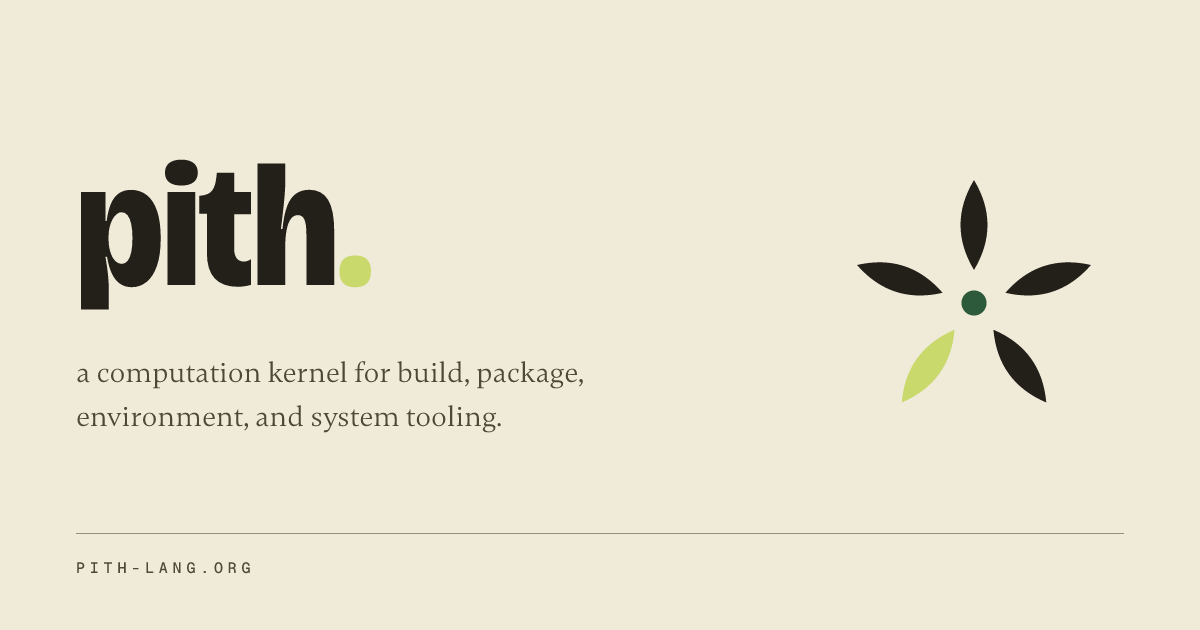
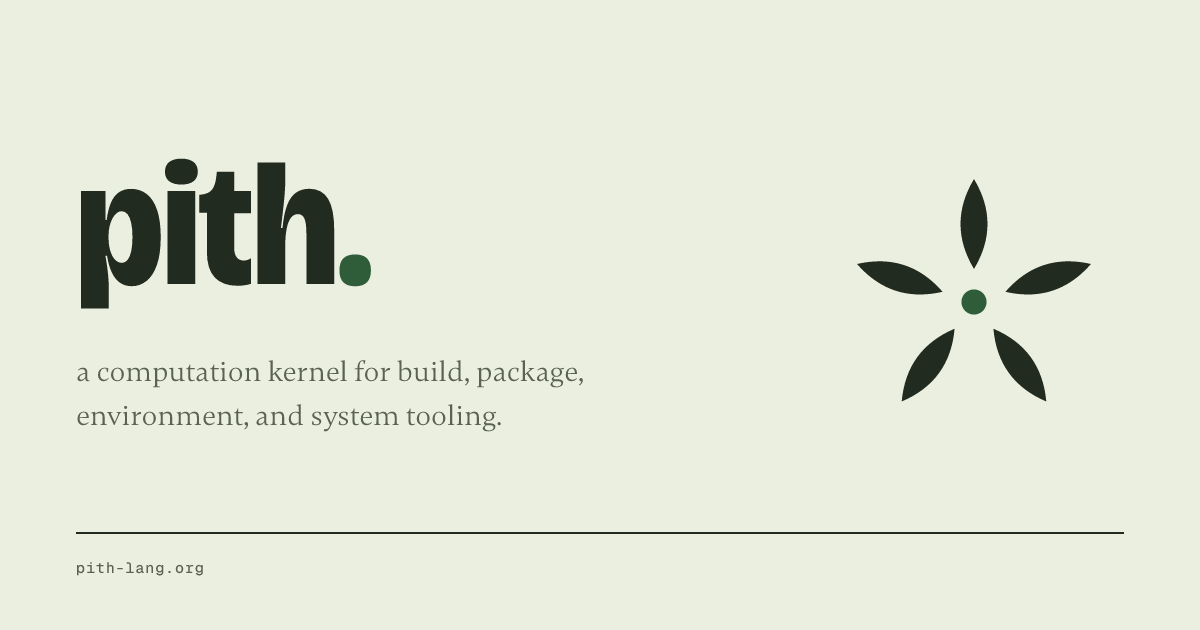
feat(web): refresh the palette and tighten the site copy

diff --git a/web/src/styles/global.css b/web/src/styles/global.css
@@ -1,18 +1,15 @@
 :root {
-  --ground: #f0ead8;
-  --ink: #23201a;
-  --sub: #4e4936;
-  --line: #938e82;
-  --accent: #c9d96b;
-  --pith: #2e5a3c;
-  --card: #f0ead8;
-  --card-ink: #23201a;
-  --card-sub: #4e4936;
-  --card-line: #938e82;
-  --card-pith: #2e5a3c;
-  --tile: #1a1c17;
-  --tile-ink: #f0ead8;
-  --tile-line: #494b41;
+  --ground: #ebefe0;
+  --ink: #222b20;
+  --sub: #5b6350;
+  --line: #c5cbaf;
+  --rule: #222b20;
+  --pith: #2f5d3a;
+  --rust: #96502c;
+  --tile: #232a21;
+  --tile-ink: #e9e5d4;
+  --tile-line: #454d40;
+  --wash: rgba(47, 93, 58, 0.07);
 
   --font-display: 'Bricolage Grotesque', 'Bricolage Fallback', sans-serif;
   --font-text: 'Gambetta', 'Gambetta Fallback', Georgia, serif;
@@ -22,11 +19,17 @@
 
 @media (prefers-color-scheme: dark) {
   :root {
-    --ground: #1a1c17;
-    --ink: #f0ead8;
-    --sub: #c8c3ac;
-    --line: #494b41;
-    --pith: #5e8a6e;
+    --ground: #161a14;
+    --ink: #ebe7d6;
+    --sub: #a4a892;
+    --line: #383e33;
+    --rule: #ebe7d6;
+    --pith: #7fb07a;
+    --rust: #cf8a5b;
+    --tile: #1e241b;
+    --tile-ink: #ebe7d6;
+    --tile-line: #454d40;
+    --wash: rgba(127, 176, 122, 0.09);
   }
 }
 
@@ -59,8 +62,8 @@ i {
 }
 
 ::selection {
-  background: var(--accent);
-  color: #1a1c17;
+  background: var(--pith);
+  color: var(--ground);
 }
 
 ::-webkit-scrollbar {
@@ -87,7 +90,7 @@ i {
 
 a {
   color: inherit;
-  text-decoration-thickness: 1.5px;
+  text-decoration-thickness: 1px;
   text-underline-offset: 0.2em;
   -webkit-tap-highlight-color: transparent;
 }
@@ -133,10 +136,9 @@ ul {
 
 .label {
   font-family: var(--font-label);
-  font-size: 12px;
+  font-size: 12.5px;
   font-weight: 500;
-  letter-spacing: 0.32em;
-  text-transform: uppercase;
+  letter-spacing: 0.06em;
   color: var(--sub);
 }
 
@@ -150,32 +152,51 @@ ul {
 code,
 .mono {
   font-family: var(--font-label);
-  font-size: 0.86em;
+  font-size: 0.84em;
+  padding: 0.1em 0.34em 0.12em;
+  border: 1px solid var(--line);
+  border-radius: 2px;
+  background: var(--wash);
+}
+
+pre code {
+  padding: 0;
+  border: none;
+  border-radius: 0;
+  background: none;
+  font: inherit;
 }
 
 .dot {
-  color: var(--accent);
+  color: var(--pith);
 }
 
-.box {
-  background: var(--card);
-  color: var(--card-ink);
-  border: 1.5px solid var(--card-ink);
-  box-shadow: 10px 10px 0 var(--accent);
+.plate {
+  border: 1px solid var(--rule);
 }
 
 .terminal {
   background: var(--tile);
   color: var(--tile-ink);
-  border: 1.5px solid var(--tile-line);
+  border: 1px solid var(--tile-line);
 }
 
 .terminal .machine {
   color: var(--tile-ink);
 }
 
+.tile-head {
+  display: flex;
+  align-items: center;
+  justify-content: space-between;
+  gap: 16px;
+  padding: 12px 18px;
+  border-bottom: 1px solid var(--tile-line);
+}
+
 .site-header {
   padding-block: 26px;
+  border-bottom: 1px solid var(--line);
 }
 
 .header-row {
@@ -191,13 +212,13 @@ code,
   align-items: center;
   gap: 12px;
   text-decoration: none;
-  font-size: 30px;
+  font-size: 29px;
   color: var(--ink);
 }
 
 .wordmark .mark {
-  width: 34px;
-  height: 34px;
+  width: 32px;
+  height: 32px;
   flex: none;
 }
 
@@ -217,8 +238,8 @@ code,
 }
 
 .site-footer {
-  margin-top: clamp(6rem, 12vw, 10rem);
-  border-top: 1.5px solid var(--line);
+  margin-top: 0;
+  border-top: 1px solid var(--line);
   padding-block: 36px 48px;
 }
 
@@ -231,8 +252,8 @@ code,
 }
 
 .footer-row .mark {
-  width: 28px;
-  height: 28px;
+  width: 26px;
+  height: 26px;
 }
 
 .f-brand {
@@ -251,20 +272,12 @@ code,
 }
 
 .section {
-  margin-block: clamp(4.5rem, 9vw, 7.5rem);
-  display: grid;
-  grid-template-columns: 172px 1fr;
-  gap: 24px 48px;
-  align-items: start;
-}
-
-.rail {
-  position: sticky;
-  top: 24px;
+  padding-block: clamp(3.5rem, 7vw, 6rem);
+  border-top: 1px solid var(--line);
 }
 
 .sec-title {
-  font-size: clamp(28px, 4vw, 42px);
+  font-size: clamp(30px, 4vw, 48px);
   margin-bottom: 1.4rem;
 }
 
@@ -274,16 +287,6 @@ code,
 
 .prose p + p {
   margin-top: 1em;
-}
-
-@media (max-width: 880px) {
-  .section {
-    grid-template-columns: 1fr;
-  }
-
-  .rail {
-    position: static;
-  }
 }
 
 @media (prefers-reduced-motion: reduce) {

diff --git a/web/src/components/EffectMark.svelte b/web/src/components/EffectMark.svelte
@@ -57,7 +57,7 @@
     });
 
     const petal = "M50,9 C56,19 56,29 50,39 C44,29 44,19 50,9 Z";
-    const accentIndex = 3;
+    const designedIndex = 3;
 
     const focus = (index: number) => () => (active = index);
     const release = () => (active = null);
@@ -76,7 +76,7 @@
                     <path
                         d={petal}
                         transform={`rotate(${i * 72} 50 50)`}
-                        class:accent={i === accentIndex}
+                        class:designed={i === designedIndex}
                         class:recede={active !== null && active !== i}
                     ></path>
                 {/each}
@@ -147,8 +147,8 @@
         opacity: 0.15;
     }
 
-    .mark path.accent {
-        fill: var(--accent);
+    .mark path.designed {
+        fill: var(--rust);
     }
 
     .mark .kernel {
@@ -157,8 +157,7 @@
 
     .cats li {
         border-bottom: 1px solid var(--line);
-        border-left: 3px solid transparent;
-        transition: border-color 240ms cubic-bezier(0.25, 0.7, 0.25, 1);
+        transition: background 240ms cubic-bezier(0.25, 0.7, 0.25, 1);
     }
 
     .cats li:first-child {
@@ -166,16 +165,16 @@
     }
 
     .cats li.on {
-        border-left-color: var(--pith);
+        background: var(--wash);
     }
 
     .cats button {
         display: grid;
-        grid-template-columns: 128px 1fr auto;
-        gap: 6px 20px;
+        grid-template-columns: 1fr auto;
+        gap: 8px 24px;
         align-items: baseline;
         width: 100%;
-        padding: 13px 2px 13px 14px;
+        padding: 13px 14px 15px;
         border: none;
         background: none;
         color: inherit;
@@ -185,7 +184,7 @@
     }
 
     .cats li :global(.label) {
-        letter-spacing: 0.18em;
+        letter-spacing: 0.06em;
     }
 
     .cats .idx {
@@ -193,10 +192,13 @@
     }
 
     .cats .name {
+        grid-area: 1 / 1;
         transition: color 240ms cubic-bezier(0.25, 0.7, 0.25, 1);
     }
 
     .cats .blurb {
+        grid-area: 2 / 1 / 3 / 3;
+        max-width: 56ch;
         font-size: 16.5px;
         line-height: 1.5;
         color: var(--sub);
@@ -204,7 +206,8 @@
     }
 
     .cats .status {
-        color: var(--sub);
+        grid-area: 1 / 2;
+        color: var(--rust);
         white-space: nowrap;
         transition: color 240ms cubic-bezier(0.25, 0.7, 0.25, 1);
     }
@@ -234,8 +237,9 @@
         }
 
         .markwrap {
+            align-self: stretch;
             padding: 22px 0 18px;
-            border-bottom: 1.5px solid var(--line);
+            border-bottom: 1px solid var(--line);
         }
 
         .mark {
@@ -243,6 +247,7 @@
         }
 
         .cats {
+            align-self: stretch;
             position: relative;
             flex: 1;
             pointer-events: none;
@@ -254,6 +259,7 @@
             display: flex;
             align-items: center;
             border: none;
+            background: none;
             opacity: 0;
             transform: translateY(12px);
             transition:
@@ -277,9 +283,15 @@
             color: var(--sub);
         }
 
+        .cats .name,
+        .cats .blurb,
+        .cats .status {
+            grid-area: auto;
+        }
+
         .cats .name {
             font-size: 14px;
-            letter-spacing: 0.24em;
+            letter-spacing: 0.06em;
         }
 
         .cats .blurb {

diff --git a/web/README.md b/web/README.md
@@ -29,8 +29,8 @@ pnpm dev
 Every page's social card renders at build time from one shared frame.
 [`src/og/layout.mjs`](src/og/layout.mjs) owns the identity: the palette from
 `docs/brand/system.md`, the self-hosted faces, the mark's exact petal
-construction as SVG, and the `ogCard()` layout: the wordmark and one summary
-line against the mark, sized to stay legible in small previews. A page
+construction as SVG, and the `ogCard()` layout (the wordmark and one summary
+line against the mark, sized to stay legible in small previews). A page
 supplies only that line. To add a card, compose one in
 [`scripts/generate-og.mjs`](scripts/generate-og.mjs) and pass its path under
 `public/og/` to the `ogImage` prop of `Base.astro`; pages without one fall
@@ -72,4 +72,4 @@ arrives through `@fontsource/geist-mono`; the rest are woff2 files in
 
 ## funding.json
 
-The `funding.json` is emitted by the internal `pith/funding` repository, and should not be edited manually
+The `funding.json` is emitted by the internal `pith/funding` repository and should not be edited manually.
